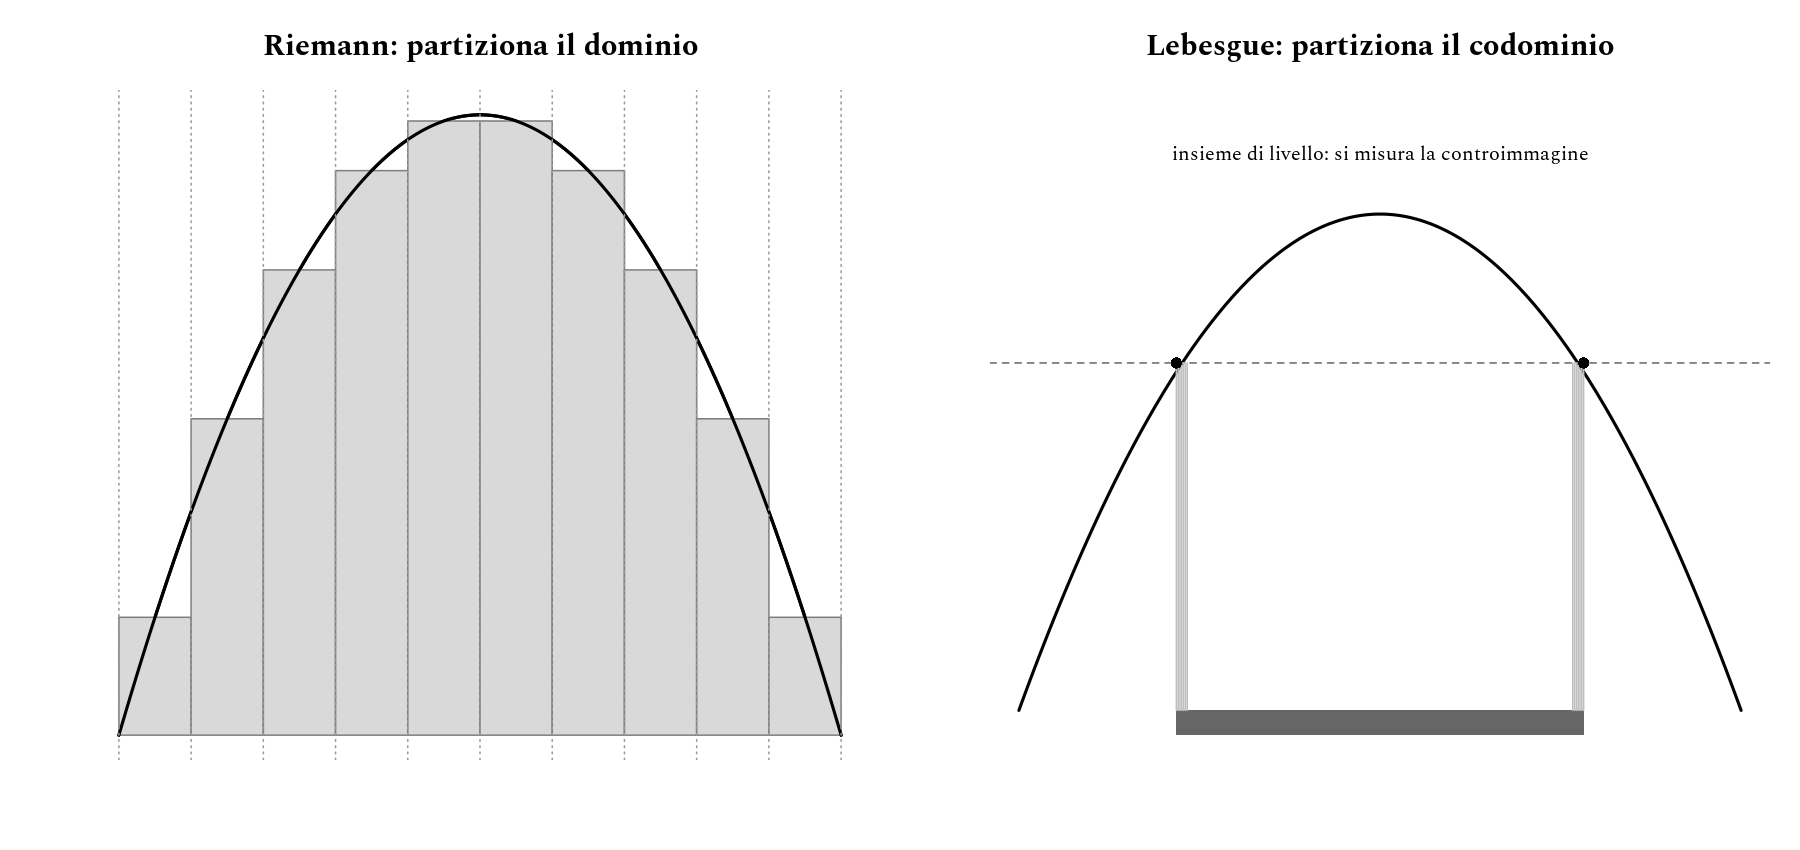
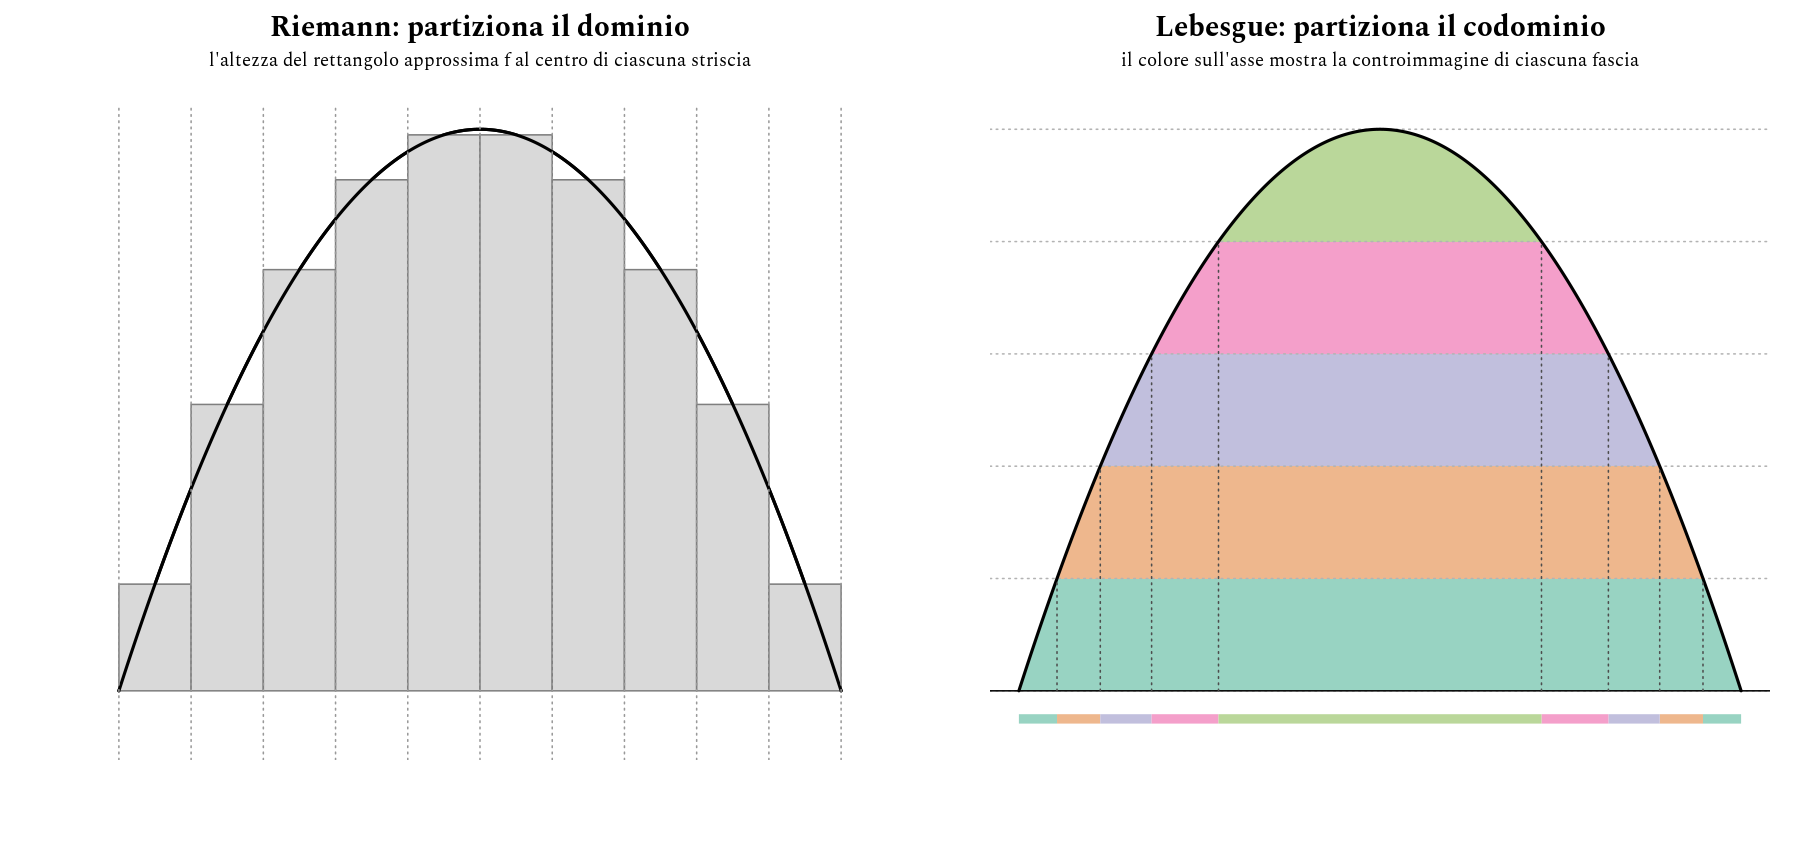
Update plots

diff --git a/teoria_misura.md b/teoria_misura.md
@@ -326,7 +326,7 @@ $$
 
 - **Linearità**: $\int (\alpha f + \beta g) = \alpha \int f + \beta \int g$.
 - **Monotonia**: $f \le g \Rightarrow \int f \le \int g$.
-- **Disuguaglianza triangolare**: $\|\int f\| \le \int |f|$.
+- **Disuguaglianza triangolare**: $\|\int f\| \le \int \|f\|$.
 
 **Uguaglianza quasi ovunque.** Si dice che una proprietà vale **quasi ovunque** (q.o.) se l'insieme dei punti dove fallisce ha misura nulla. Fatto notevole: se $f = g$ q.o., allora $\int f = \int g$ — l'integrale di Lebesgue è "cieco" rispetto a modifiche su un insieme di misura nulla. È esattamente questo a rendere possibile l'esempio del prossimo paragrafo.
 
